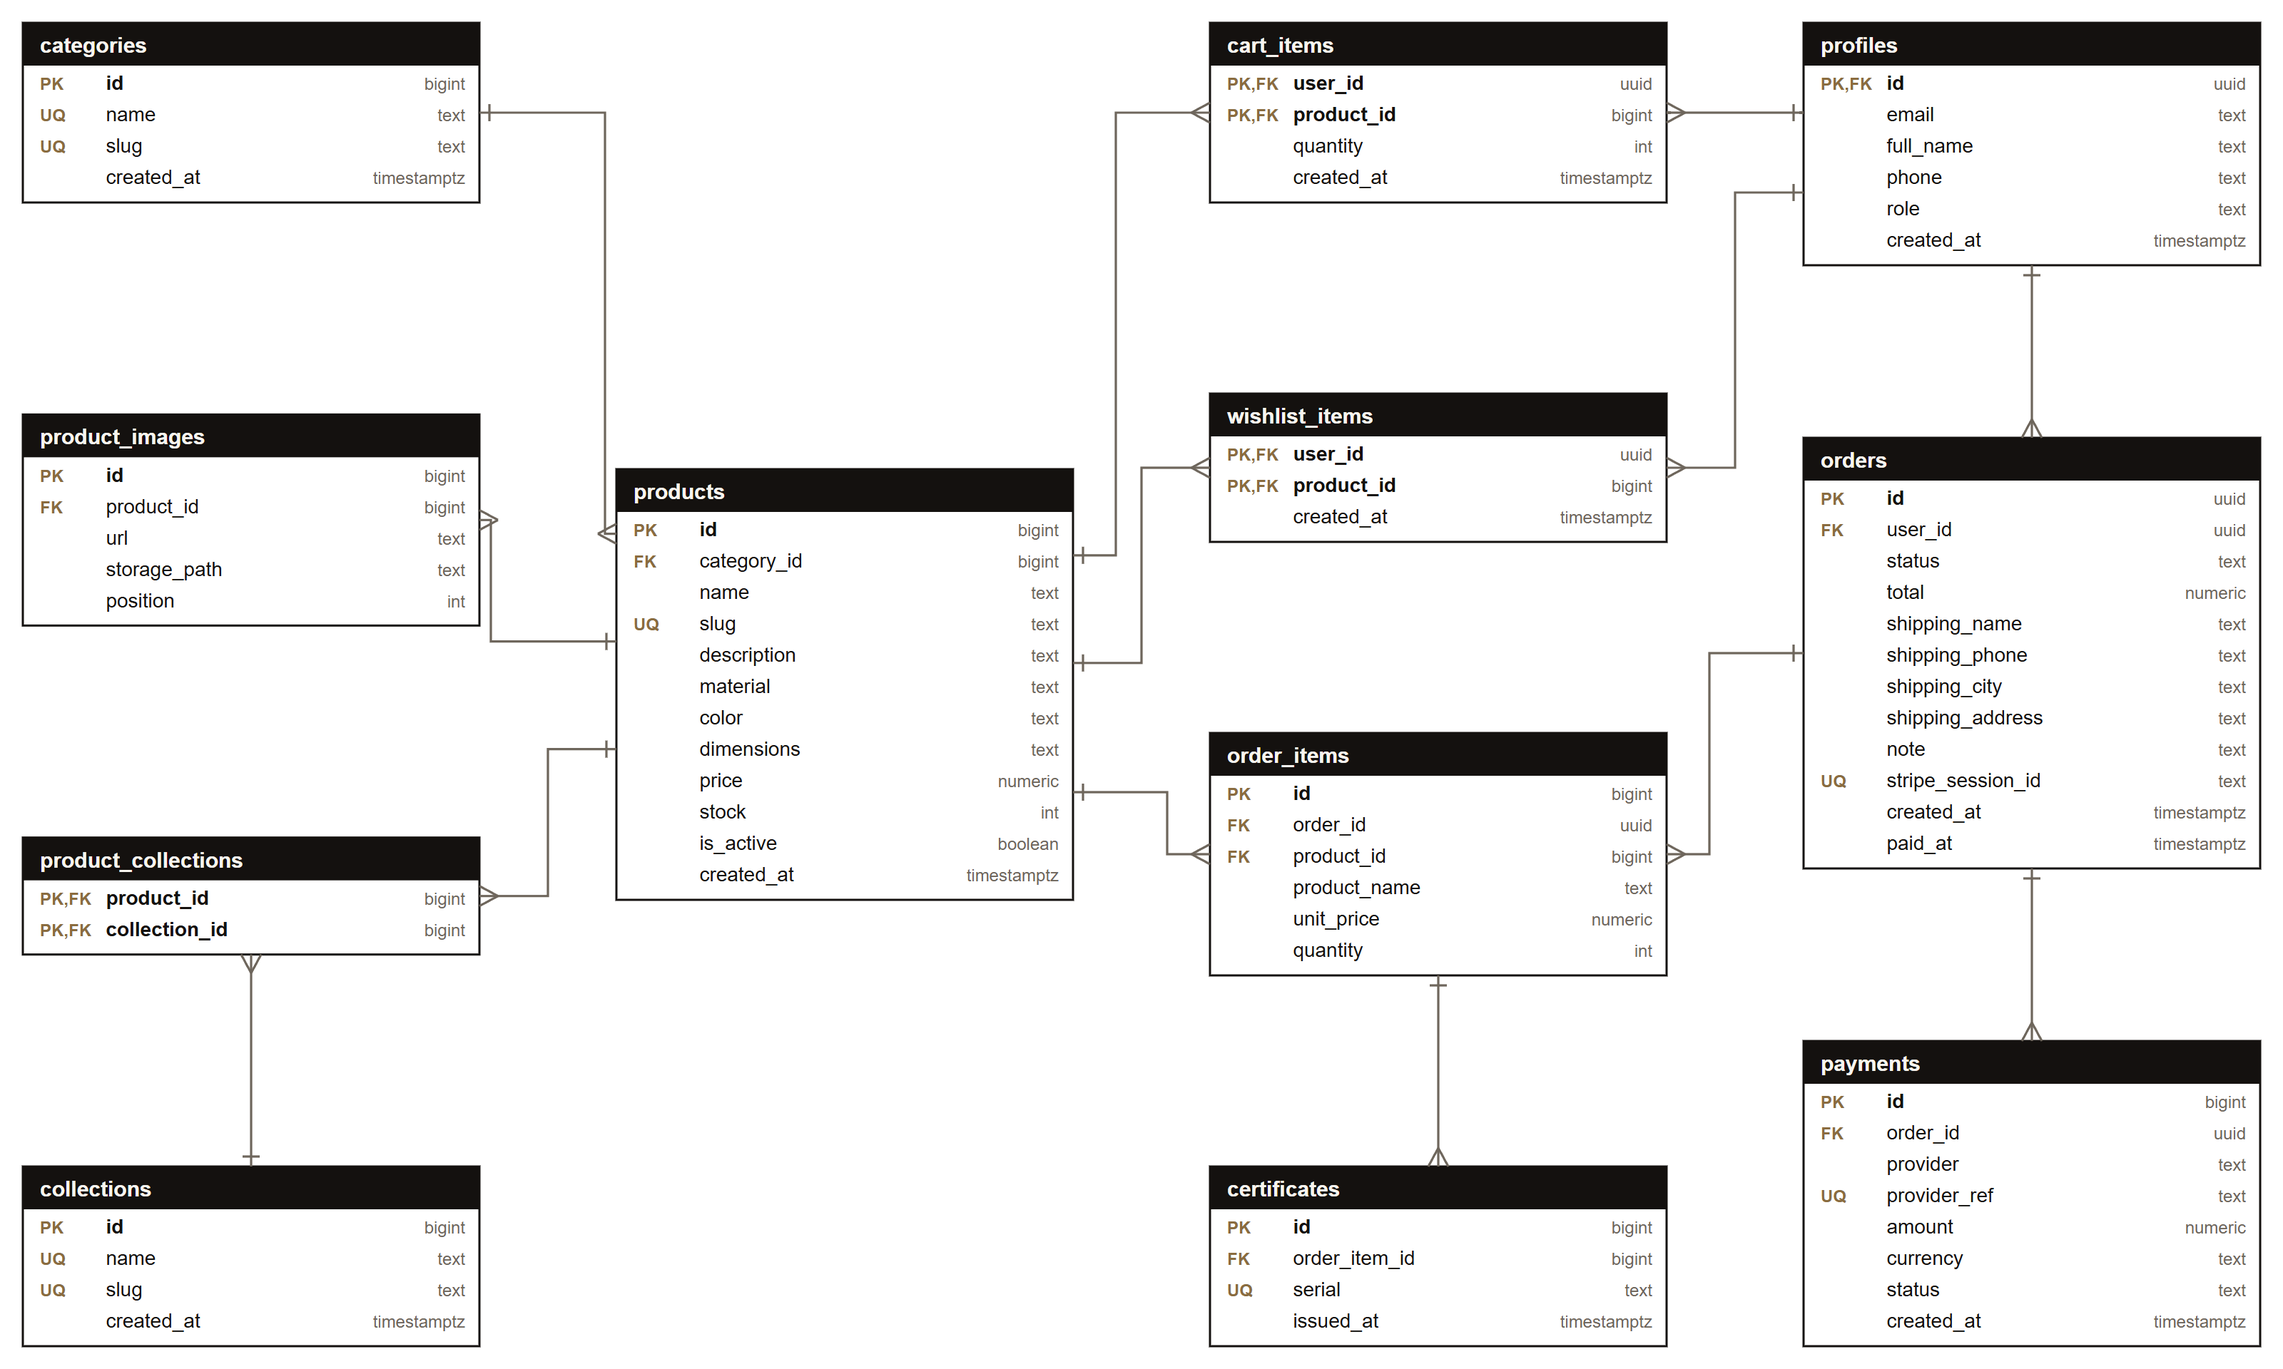
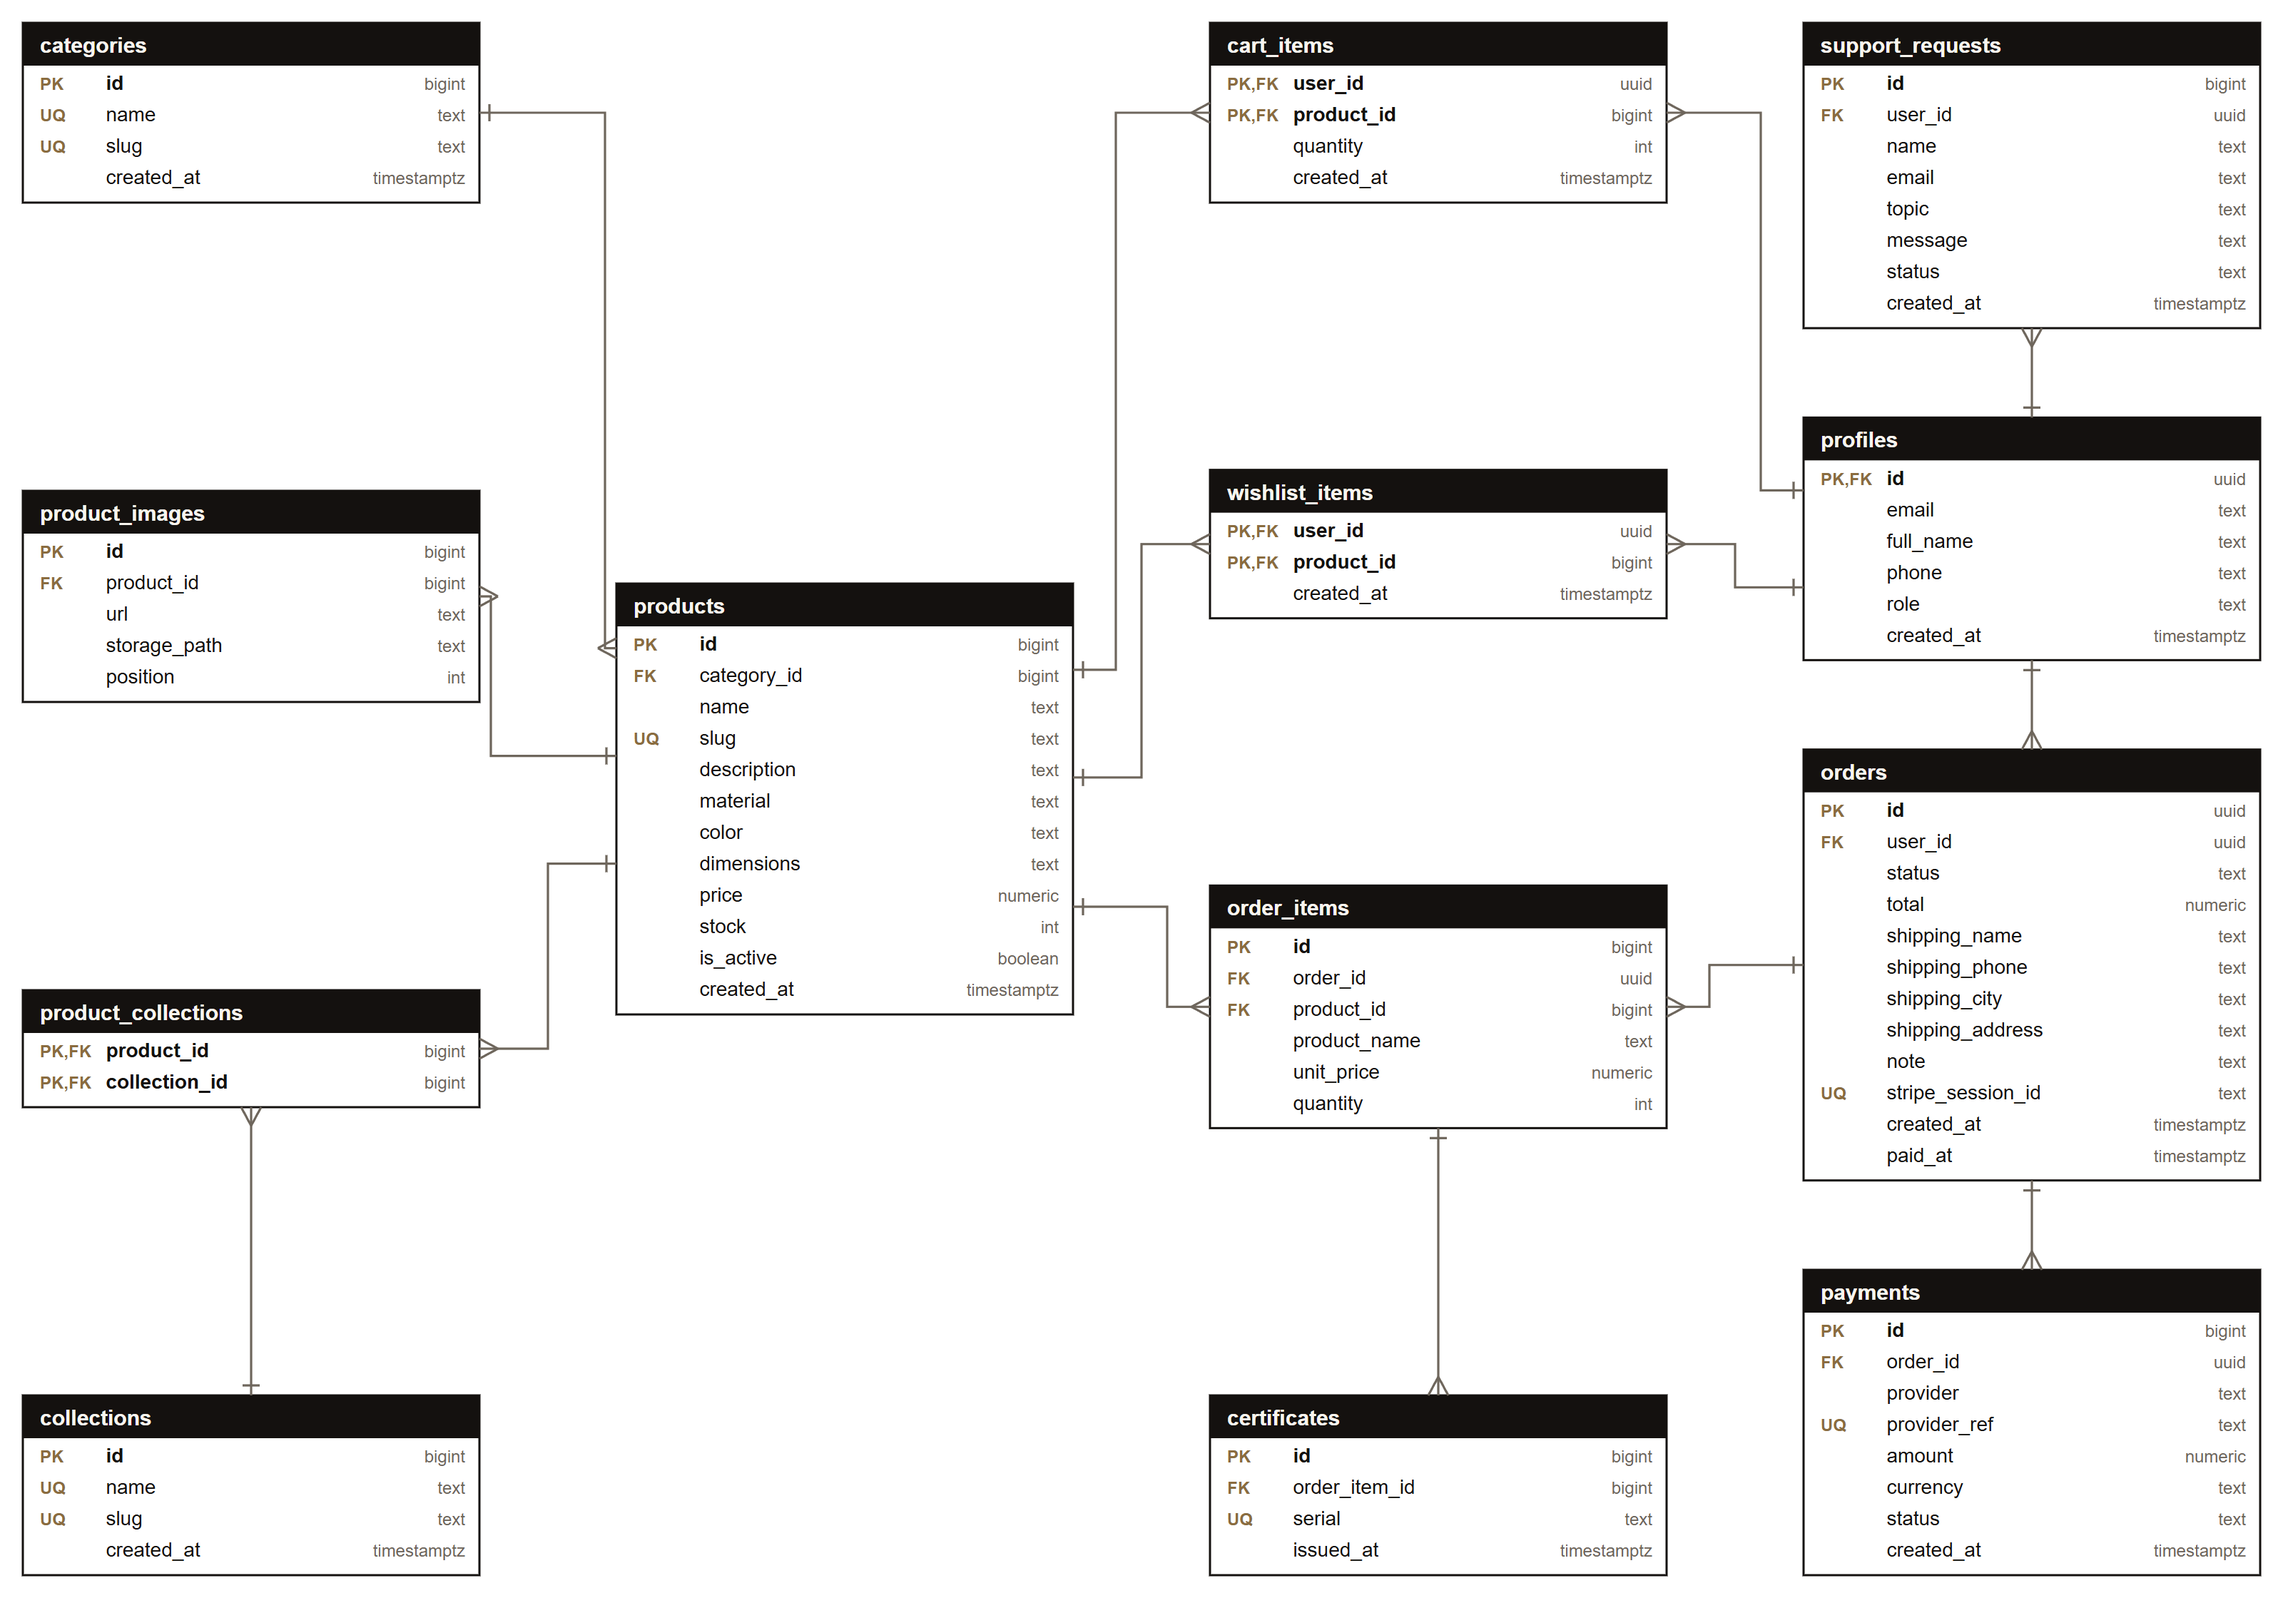
Add the help desk table and verified changes to the ERD and design doc

diff --git a/docs/DESIGN.md b/docs/DESIGN.md
@@ -14,9 +14,9 @@
 
 | Эрх | Боломж |
 |---|---|
-| **Зочин** | Цүнх үзэх, хайх, шүүх, гэрчилгээ шалгах |
-| **Хэрэглэгч** | Дээрх бүгд + сагс, хадгалах, захиалах, төлбөр төлөх, захиалгын түүх, гэрчилгээ |
-| **Администратор** | Дээрх бүгд + бүтээгдэхүүн, ангилал, цуглуулга, захиалга, хэрэглэгч, төлбөр, статистик |
+| **Зочин** | Цүнх үзэх, хайх, шүүх, гэрчилгээ шалгах, тусламжийн хүсэлт илгээх |
+| **Хэрэглэгч** | Дээрх бүгд + сагс, хадгалах, захиалах, төлбөр төлөх, захиалгын түүх, гэрчилгээ, өөрийн хүсэлтүүдийг харах, имэйл/утсаа кодоор баталгаажуулж солих |
+| **Администратор** | Дээрх бүгд + бүтээгдэхүүн, ангилал, цуглуулга, захиалга, хэрэглэгч, төлбөр, статистик, тусламжийн хүсэлт |
 
 ## 3. Хэрэглэгчийн урсгал
 
@@ -37,7 +37,25 @@ flowchart TD
   J --> M[Гэрчилгээг /verify-оор шалгах]
 ```
 
-**Wireframe:** үндсэн хуудсуудын 13 хуудас бүхий wireframe: [wireframes/wireframes.pdf](wireframes/wireframes.pdf).
+**Тусламж:** зочин ч `/help` хуудсаас хүсэлт илгээнэ → админ «Тусламж» хэсгээс харж, имэйлээр хариулаад «Шийдвэрлэсэн» болгоно.
+
+**Имэйл, утас солих:**
+
+```mermaid
+flowchart TD
+  P[Миний бүртгэл] --> Q{Юуг солих вэ?}
+  Q -- Имэйл --> R[Шинэ имэйл оруулах]
+  R --> S[Хуучин, шинэ хаяг руу тус бүр код]
+  S --> T[Хоёр кодыг оруулах] --> U[Имэйл солигдлоо]
+  Q -- Утас --> V[Шинэ дугаар оруулах]
+  V --> W[Бүртгэлийн имэйл рүү код]
+  W --> X[Код оруулах: шинэ session нээгдэнэ]
+  X --> Y[update_my_phone: session 10 минутаас шинэ эсэхийг шалгана] --> Z[Утас солигдлоо]
+```
+
+Код бүхий имэйлд мөн холбоос байдаг. Холбоосыг дарахад ч адилхан баталгаажна.
+
+**Wireframe:** үндсэн хуудсуудын 13 хуудас бүхий wireframe: [wireframes/wireframes.pdf](wireframes/wireframes.pdf). Тусламжийн төв болон имэйл/утас солих дэлгэц нь wireframe-ийн дараа нэмэгдсэн.
 
 ## 4. Архитектур
 
@@ -54,10 +72,11 @@ flowchart LR
 
 ## 5. ERD
 
-12 хүснэгттэй. 1:N болон N:M холбоог хоёуланг нь ашигласан. Зураг хэлбэрээр: [erd.png](erd.png).
+13 хүснэгттэй. 1:N болон N:M холбоог хоёуланг нь ашигласан. Зураг хэлбэрээр: [erd.png](erd.png).
 
 ```mermaid
 erDiagram
+  profiles |o--o{ support_requests : "1:N, зочинд хоосон"
   profiles ||--o{ orders : "1:N"
   profiles ||--o{ cart_items : "1:N"
   profiles ||--o{ wishlist_items : "1:N"
@@ -166,6 +185,16 @@ erDiagram
     text serial UK
     timestamptz issued_at
   }
+  support_requests {
+    bigint id PK
+    uuid user_id FK "зочин бол хоосон"
+    text name
+    text email
+    text topic "order, product, certificate, payment, other"
+    text message
+    text status "open эсвэл closed"
+    timestamptz created_at
+  }
 ```
 
 **N:M холбоо:** `products ↔ collections` (`product_collections`-оор), `profiles ↔ products` (`cart_items`, `wishlist_items`-ээр), `orders ↔ products` (`order_items`-ээр).
@@ -176,7 +205,8 @@ erDiagram
 |---|---|---|
 | `categories`, `collections`, `product_images`, `product_collections` | Бүгд | Зөвхөн админ |
 | `products` | Идэвхтэйг нь бүгд, нуугдсаныг зөвхөн админ | Зөвхөн админ |
-| `profiles` | Өөрийнх эсвэл админ | Зөвхөн өөрийн нэр, утас. `role` баганыг шууд өөрчлөх эрх хэнд ч алга |
+| `profiles` | Өөрийнх эсвэл админ | Зөвхөн өөрийн нэр. Утсыг зөвхөн `update_my_phone()` функцээр, кодоор баталгаажуулсны дараа. `role` баганыг шууд өөрчлөх эрх хэнд ч алга |
+| `support_requests` | Өөрийнх эсвэл админ (зочин уншиж чадахгүй) | Хэн ч өөрийн нэрээр илгээнэ, нэг имэйлээс цагт 5 хүртэл. Төлөвийг зөвхөн админ өөрчилнө |
 | `cart_items`, `wishlist_items` | Өөрийнх | Өөрийнх |
 | `orders`, `order_items`, `payments`, `certificates` | Өөрийнх эсвэл админ | Browser-оос бичих эрхгүй. Зөвхөн SQL функцээр |
 | Storage `product-images` | Бүгд | Зөвхөн админ, 5 MB, JPG/PNG/WEBP |
